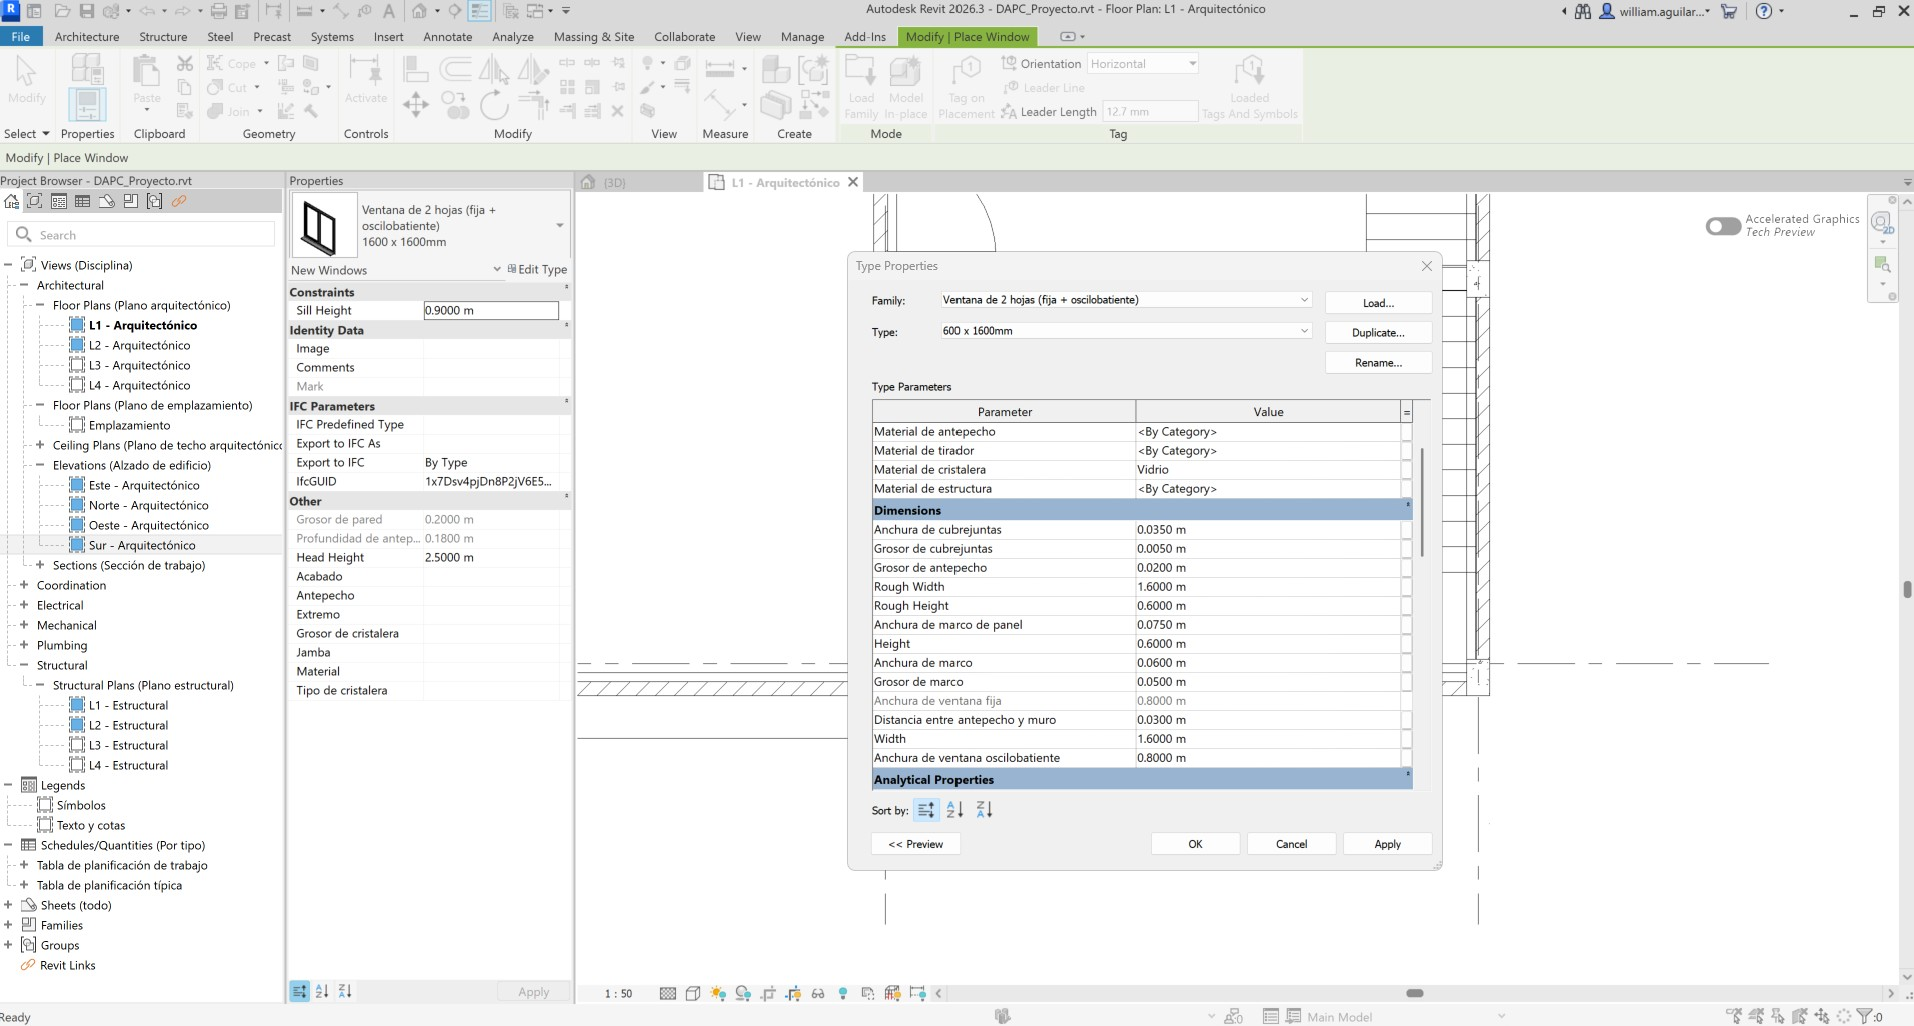
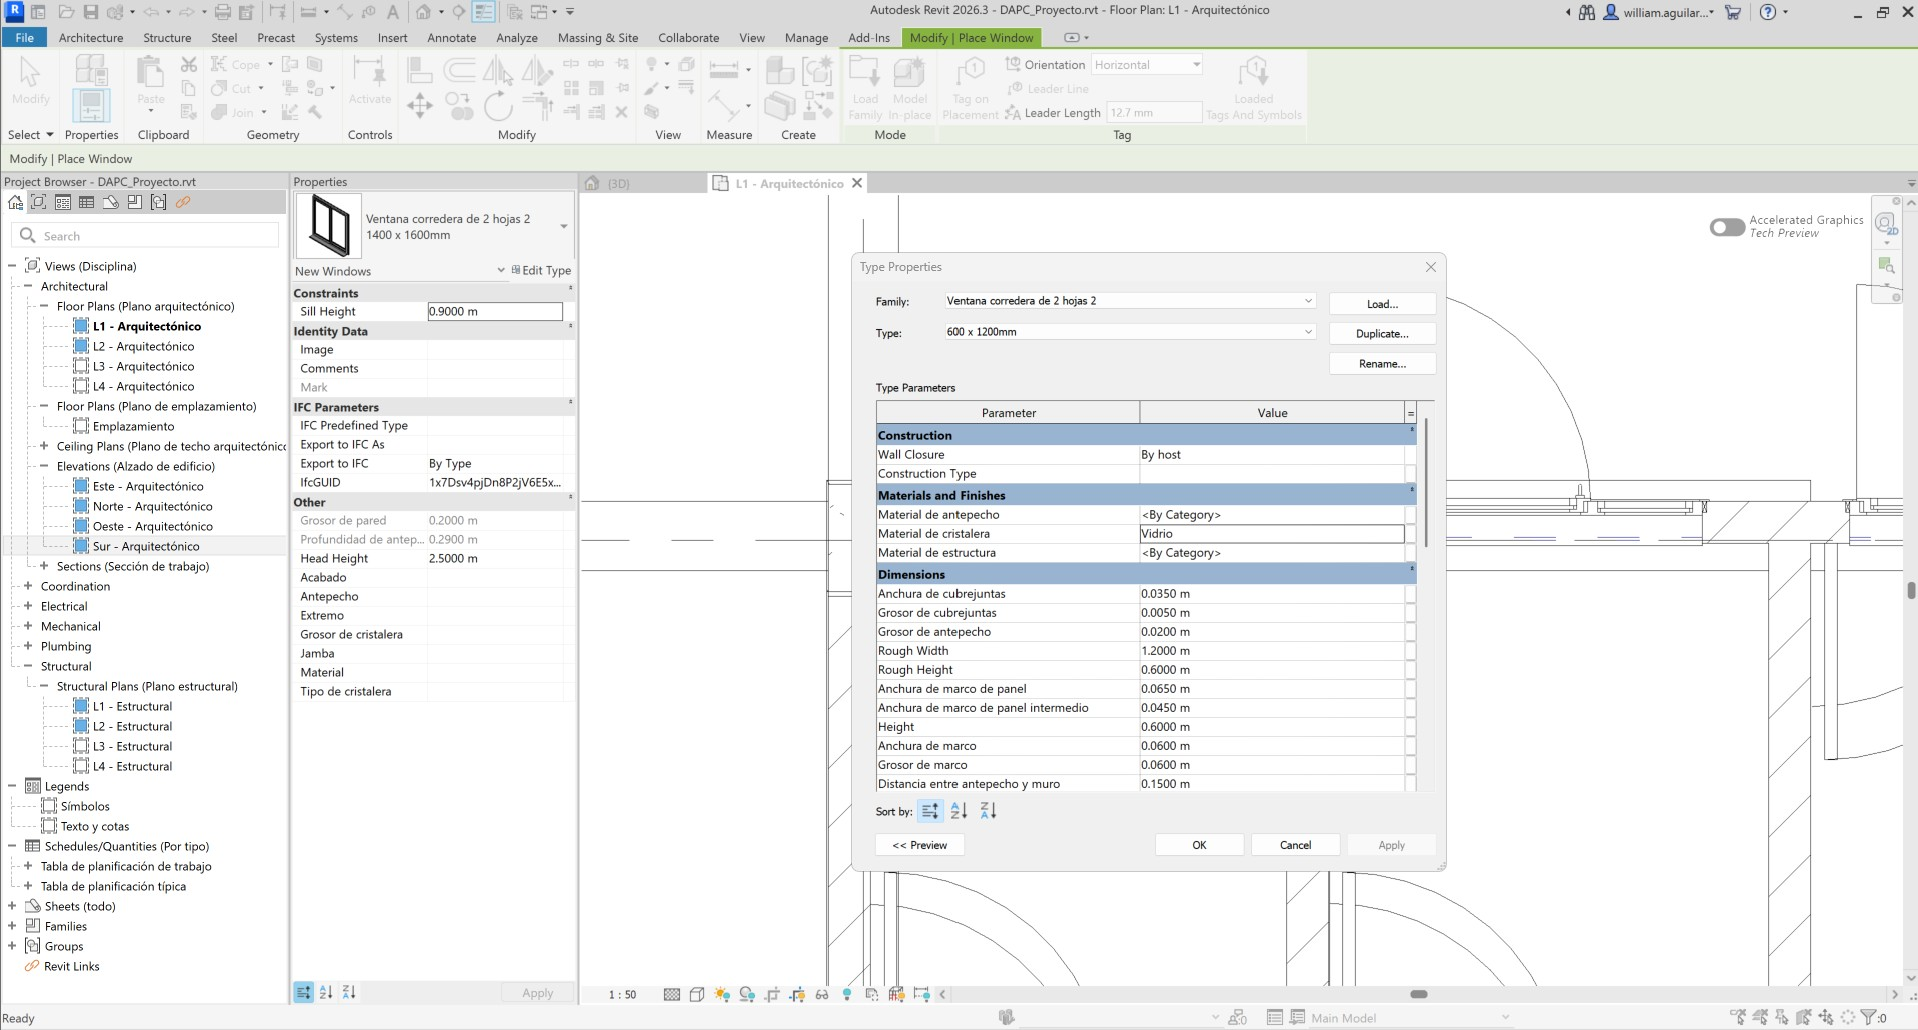
General update.

diff --git a/activity/M03A03b/Readme.md b/activity/M03A03b/Readme.md
@@ -94,7 +94,7 @@ La categoría de puertas depende de la categoría de muros, esto quiere decir qu
 <div align="center"><img src="graph/Revit_Window.jpg" alt="R.DAPC" width="100%" border="0" /></div>
 <div align="center"><img src="graph/Revit_Window1.jpg" alt="R.DAPC" width="100%" border="0" /></div>
 
-2. Para la zona de baños, cree ventanas de hoja deslizante _/Spanish/Ventanas/Ventana de 2 hojas (fija + oscilobatiente).rfa_ de 0.6 x 1.2 metros y localice a 2.6 metros de altura.
+2. Para la zona de baños, cree ventanas de hoja deslizante _/Spanish/Ventanas/Ventana corredera de 2 hojas 2.rfa_ de 0.6 x 1.2 metros y localice a 2.6 metros de altura.
 
 <div align="center"><img src="graph/Revit_Window2.jpg" alt="R.DAPC" width="100%" border="0" /></div>
 <div align="center"><img src="graph/Revit_Window3.jpg" alt="R.DAPC" width="100%" border="0" /></div>
